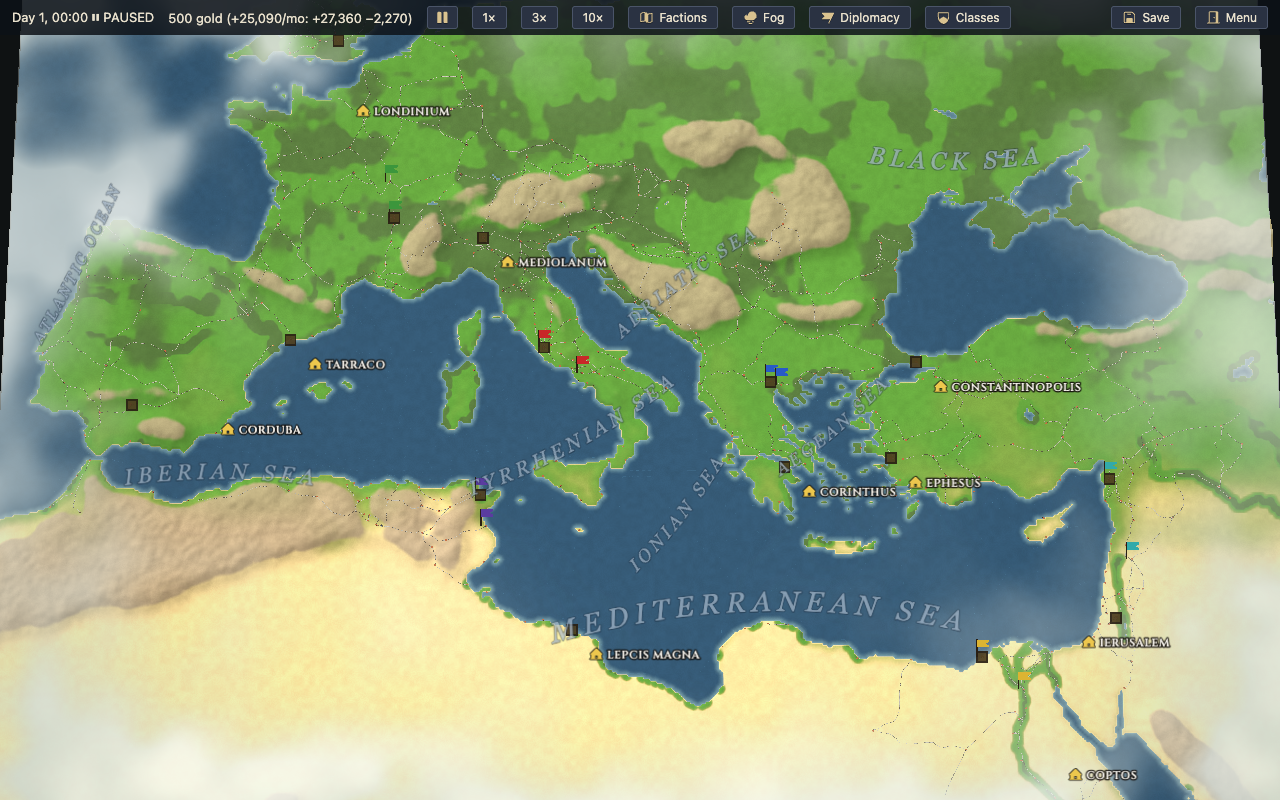
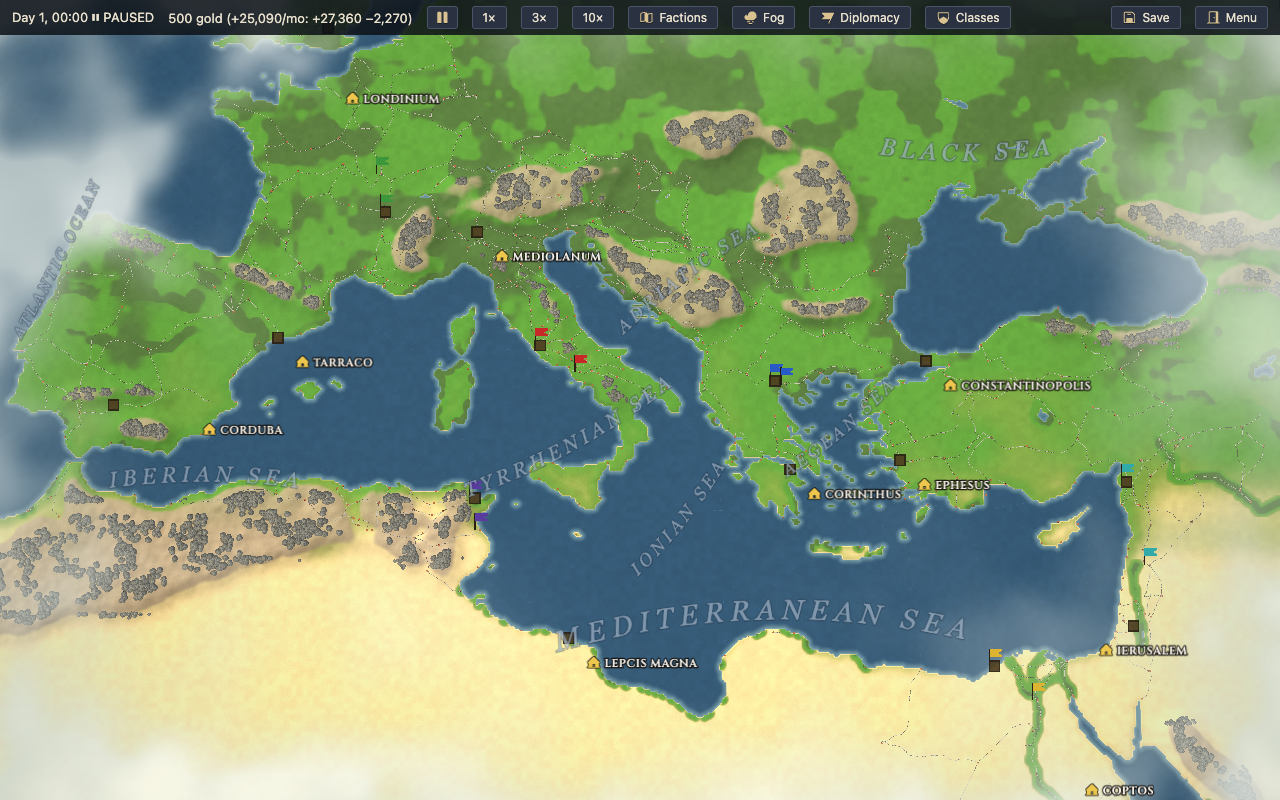
campaign-map-polish 01: camera clamp never sees off the map
Rewrite clampCam to contain the REAL perspective frustum footprint via
screenToWorld (the projection is the single owner), replacing the stale
orthographic cosP estimate that let the tilted top corners overreach the map
edge (feedback #1: black top-left/top-right wedges at full zoom-out). minZoom
is solved by bisection so all four ground-plane corners stay inside bgRect; the
pan bounds use the same footprint. Unify the triplicated zoom-ceiling 8 into one
exported MAX_CAMPAIGN_ZOOM.

Verified: new campaign-frame scene asserts no off-map black at wide (1720x720)
and tall (1024x768) aspects — worst corner ratio 0.000. campaign-lod whole-*
shots re-blessed (map now fills the frame). Codex-reviewed; web typecheck green.

Implementation delegated to Codex per goal; verification + blessing done here.

diff --git a/web/src/campaign/renderer.ts b/web/src/campaign/renderer.ts
@@ -67,6 +67,8 @@ import { campaignSurface, type CampaignSurface } from "./surface";
 import { type FactionLabel, type Territory } from "./territory";
 import type { ArmyView, CityView } from "./views";
 
+export const MAX_CAMPAIGN_ZOOM = 8;
+
 interface DrawOptions {
   cam: CamView;
   armies: ArmyView[];
@@ -157,8 +159,30 @@ export class CampaignRenderer {
         (window.devicePixelRatio || 1)
       : Math.max(cssW / (rect.max[0] - rect.min[0]), cssH / ((rect.max[1] - rect.min[1]) * cosP)) *
         (window.devicePixelRatio || 1);
-    const minZoom = controlled ? fillZoom * 0.78 : fillZoom;
-    const maxZoom = controlled ? Math.max(8, minZoom * 2.2) : 8;
+    let minZoom = controlled ? fillZoom * 0.78 : fillZoom;
+    const maxZoom = controlled ? Math.max(MAX_CAMPAIGN_ZOOM, minZoom * 2.2) : MAX_CAMPAIGN_ZOOM;
+    if (!controlled) {
+      const mapW = rect.max[0] - rect.min[0];
+      const mapH = rect.max[1] - rect.min[1];
+      const fits = (scale: number) => {
+        const fp = this.groundFootprintForScale(scale);
+        return fp.halfW * 2 <= mapW && fp.dTop + fp.dBottom <= mapH;
+      };
+      if (fillZoom >= maxZoom) {
+        minZoom = fillZoom;
+      } else if (!fits(maxZoom)) {
+        minZoom = maxZoom;
+      } else {
+        let lo = fillZoom;
+        let hi = maxZoom;
+        for (let i = 0; i < 24; i++) {
+          const mid = (lo + hi) * 0.5;
+          if (fits(mid)) hi = mid;
+          else lo = mid;
+        }
+        minZoom = hi;
+      }
+    }
     cam.scale = Math.max(minZoom, Math.min(maxZoom, cam.scale));
     const halfW = (this.canvas.width || cssW) / (2 * cam.scale);
     const halfH = (this.canvas.height || cssH) / (2 * cam.scale * cosP);
@@ -166,9 +190,47 @@ export class CampaignRenderer {
       cam.x = clampControlledAxis(cam.x, rect.min[0], rect.max[0], halfW);
       cam.y = clampControlledAxis(cam.y, rect.min[1], rect.max[1], halfH);
     } else {
-      cam.x = clamp(cam.x, rect.min[0] + halfW, rect.max[0] - halfW);
-      cam.y = clamp(cam.y, rect.min[1] + halfH, rect.max[1] - halfH);
+      const fp = this.groundFootprintForScale(cam.scale);
+      const minX = rect.min[0] + fp.halfW;
+      const maxX = rect.max[0] - fp.halfW;
+      const minY = rect.min[1] + fp.dBottom;
+      const maxY = rect.max[1] - fp.dTop;
+      cam.x = minX > maxX ? (rect.min[0] + rect.max[0]) * 0.5 : clamp(cam.x, minX, maxX);
+      cam.y = minY > maxY ? (rect.min[1] + rect.max[1]) * 0.5 : clamp(cam.y, minY, maxY);
     }
+  }
+
+  private groundFootprintForScale(scale: number) {
+    const rect = this.data.bgRect;
+    const cx = (rect.min[0] + rect.max[0]) * 0.5;
+    const cy = (rect.min[1] + rect.max[1]) * 0.5;
+    const centeredCam: CamView = { x: cx, y: cy, scale };
+    const stats = this.shell?.stats();
+    const width = stats?.width ?? this.canvas.width ?? 1;
+    const height = Math.max(1, stats?.height ?? this.canvas.height ?? 1);
+    const snapshot: CameraSnapshot = {
+      x: cx,
+      y: cy,
+      zoom: scale,
+      camera3d: this.cameraParamsFor(centeredCam),
+      width,
+      height,
+    };
+    const corners = [
+      screenToWorld(snapshot, 0, 0),
+      screenToWorld(snapshot, width, 0),
+      screenToWorld(snapshot, 0, height),
+      screenToWorld(snapshot, width, height),
+    ];
+    let halfW = 0;
+    let minY = Infinity;
+    let maxY = -Infinity;
+    for (const [x, y] of corners) {
+      halfW = Math.max(halfW, Math.abs(x - cx));
+      minY = Math.min(minY, y);
+      maxY = Math.max(maxY, y);
+    }
+    return { halfW, dTop: maxY - cy, dBottom: cy - minY };
   }
 
   toScreen(wx: number, wy: number): [number, number] {
@@ -518,7 +580,7 @@ export class CampaignRenderer {
     const fillZoom =
       Math.max(cssW / (rect.max[0] - rect.min[0]), cssH / (rect.max[1] - rect.min[1])) * dpr;
     const min = controlled ? fillZoom * 0.78 : fillZoom;
-    const max = controlled ? Math.max(8, min * 2.2) : 8;
+    const max = controlled ? Math.max(MAX_CAMPAIGN_ZOOM, min * 2.2) : MAX_CAMPAIGN_ZOOM;
     return { min, max };
   }
 

diff --git a/web/src/campaign/scene.ts b/web/src/campaign/scene.ts
@@ -23,7 +23,7 @@ import { Sieges } from "../ui/campaign/Sieges";
 import { CampaignBattleModal, type EncounterSideView } from "../ui/campaign/CampaignBattleModal";
 import { loadCampaignData, nearestLoc, tilePos, type CampaignData } from "./data";
 import type { CamView } from "./camera";
-import { CampaignRenderer } from "./renderer";
+import { CampaignRenderer, MAX_CAMPAIGN_ZOOM } from "./renderer";
 import { TerrainField } from "./terrain";
 import { Territory } from "./territory";
 import { Allegiance } from "./status";
@@ -498,7 +498,7 @@ export class CampaignScene implements Scene {
           e.offsetX * devicePixelRatio,
           e.offsetY * devicePixelRatio,
         );
-        this.cam.scale = Math.min(8, this.cam.scale * f);
+        this.cam.scale = Math.min(MAX_CAMPAIGN_ZOOM, this.cam.scale * f);
         this.clampCam(); // zoom floor + new basis for zoom-to-cursor
         const [nx, ny] = this.renderer.toWorld(
           e.offsetX * devicePixelRatio,

diff --git a/specs/campaign-map-polish/README.md b/specs/campaign-map-polish/README.md
@@ -13,15 +13,33 @@ the slice files.
 
 ## Next Agent Prompt
 
-**Status:** Plan materialized 2026-07-03. Implementation not started.
+**Status:** 2026-07-03. Slices 00 + 01 DONE (committed). Foundation group next.
 **You are implementing this spec.** David's standing goal: work through the
 slices in order and **use `/codex` for implementation work wherever possible**
 (delegate the mechanical edits to Codex via `codex exec`; you drive verification,
 screenshots, and the human checkpoints yourself).
 
-**Next pickup point:** Slice `00-setup` (spec scaffold + palette telemetry
-harness), then `01-camera-clamp`, then the foundation group `02`→`03`→`04` up to
-the **Foundation human checkpoint** — the first thing David reviews.
+**Next pickup point:** Slice `02-terrain-grade` (global grade knob), then `03`→
+`04` up to the **Foundation human checkpoint** — the first thing David reviews.
+
+**Verification setup (learned in slice 01 — READ THIS):**
+- The scene runner (`cd web && node scene.mjs <scene>`) targets a dev server at
+  `VERIFY_URL` (default `localhost:5173`). **5173 is occupied by another
+  worktree's server** — always start your OWN dev server for this tree and target
+  it: `cd web && node node_modules/.bin/vite --port 5199 --strictPort &` then
+  `VERIFY_URL=http://localhost:5199 VERIFY_GPU=1 node scene.mjs <scene>`. Verifying
+  against the wrong server silently tests stale code. (A dev server on 5199 may
+  already be running from slice 01.)
+- Bless baselines with `UPDATE_SHOTS=1`; filter with `SNAP=<substr>`.
+- Codex's sandbox can't bind localhost, so it can't run scenes — delegate the
+  code edit to Codex (`codex exec --sandbox workspace-write`), then YOU run the
+  scene + screenshot-critique.
+
+**Slice 01 notes:** camera clamp now uses the real frustum footprint (`screenToWorld`)
+instead of an orthographic `cosP` estimate — the projection is the single owner.
+The raised `minZoom` shifted `campaign-lod`'s `whole-*` shots (map now fills the
+frame); those baselines were re-blessed. Foundation (02–04) will re-bless again for
+palette. New scene: `campaign-frame` (asserts no off-map black at wide/tall aspect).
 
 **How to work each slice:**
 1. Read the slice file. Confirm the seam in the real code.
@@ -51,8 +69,8 @@ the **Foundation human checkpoint** — the first thing David reviews.
   scenes are a hard firewall**; keep them green.
 
 ### Global TODO checklist
-- [ ] `00-setup` — spec scaffold, copy references, palette compare-telemetry harness
-- [ ] `01-camera-clamp` — no off-map black corners; collapse the dup zoom-ceiling const
+- [x] `00-setup` — scaffold + palette reference copied to aesthetics references
+- [x] `01-camera-clamp` — real-frustum-footprint clamp; no off-map black; zoom-ceiling const unified
 - [ ] `02-terrain-grade` — global grade knob (brightness/saturation/warmth)
 - [ ] `03-terrain-biomes` — per-biome hue constants
 - [ ] `04-faction-fill` — de-mud; collapse 3 alpha owners → 1
